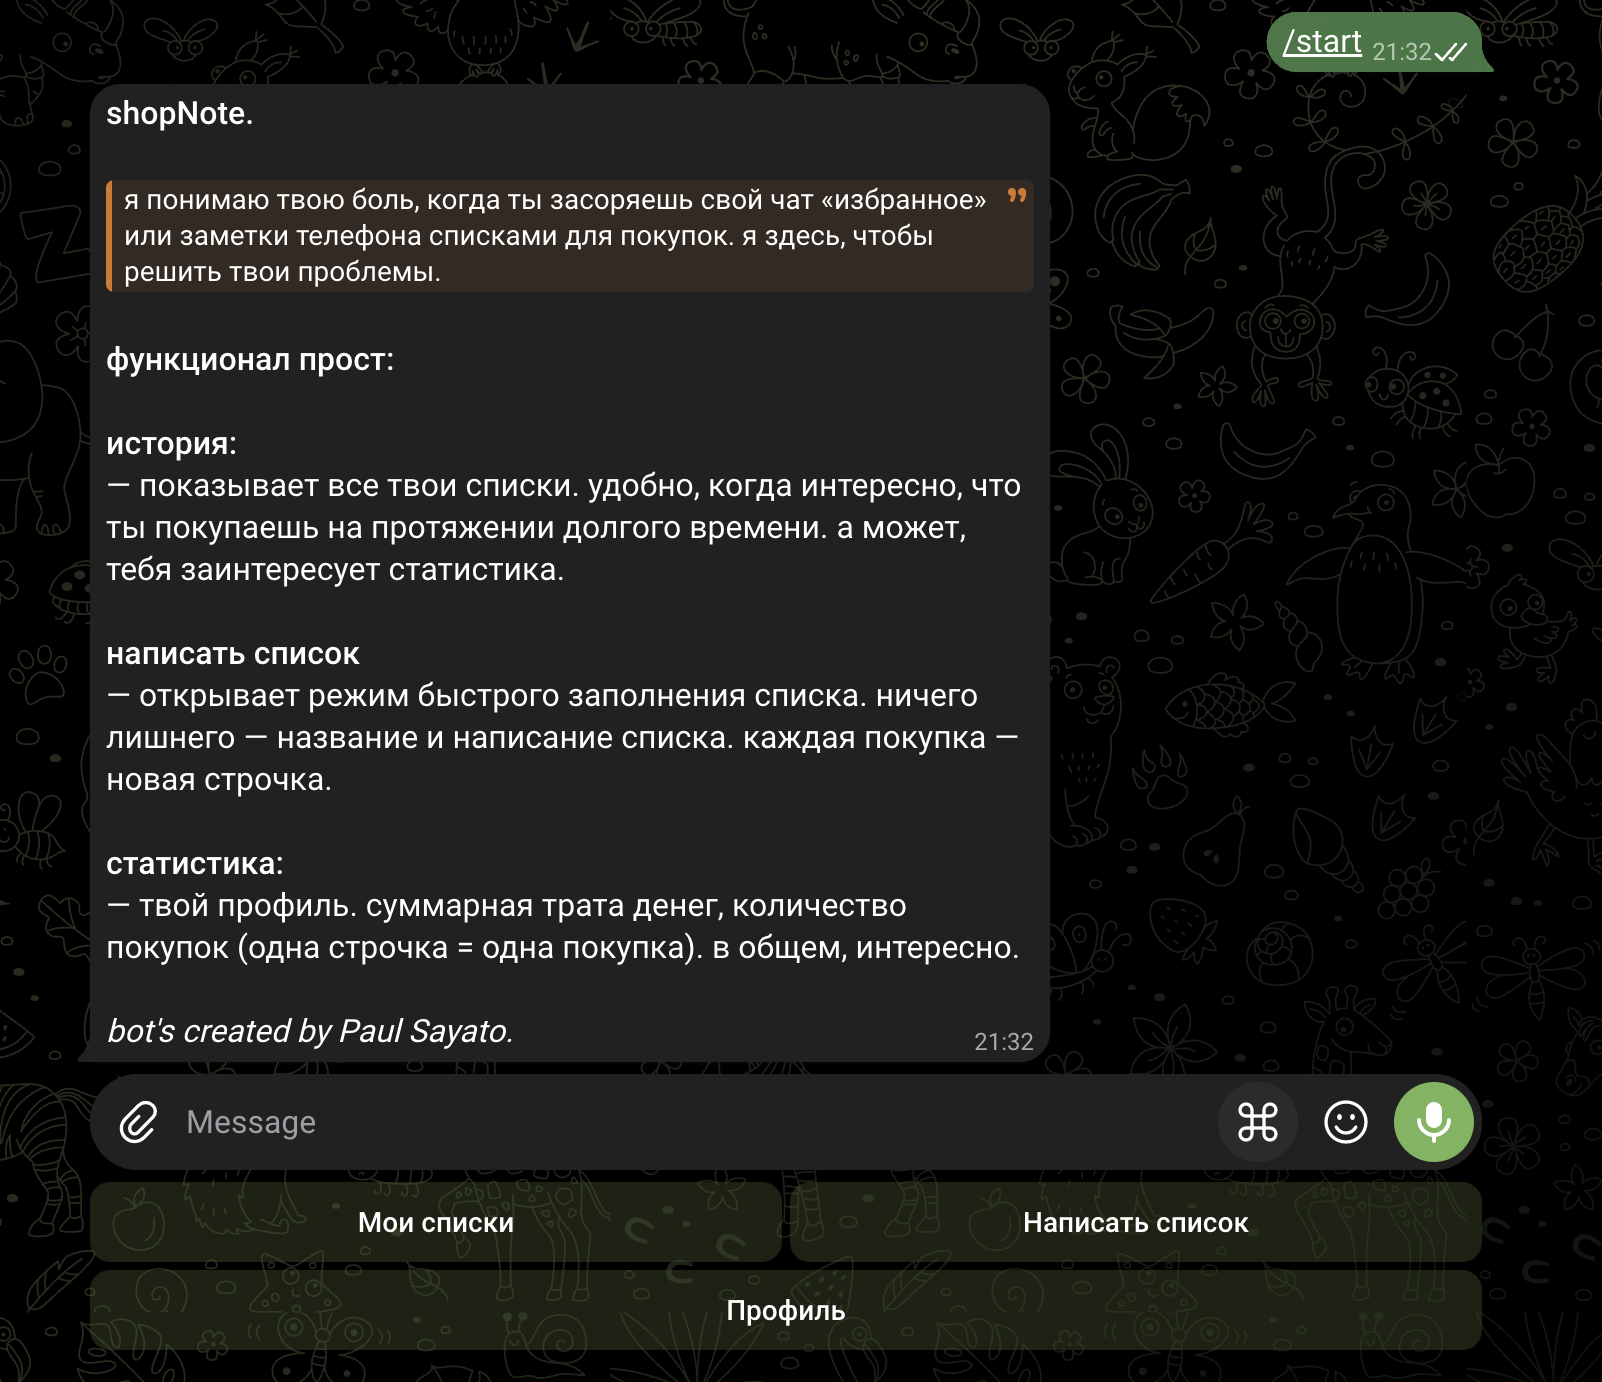
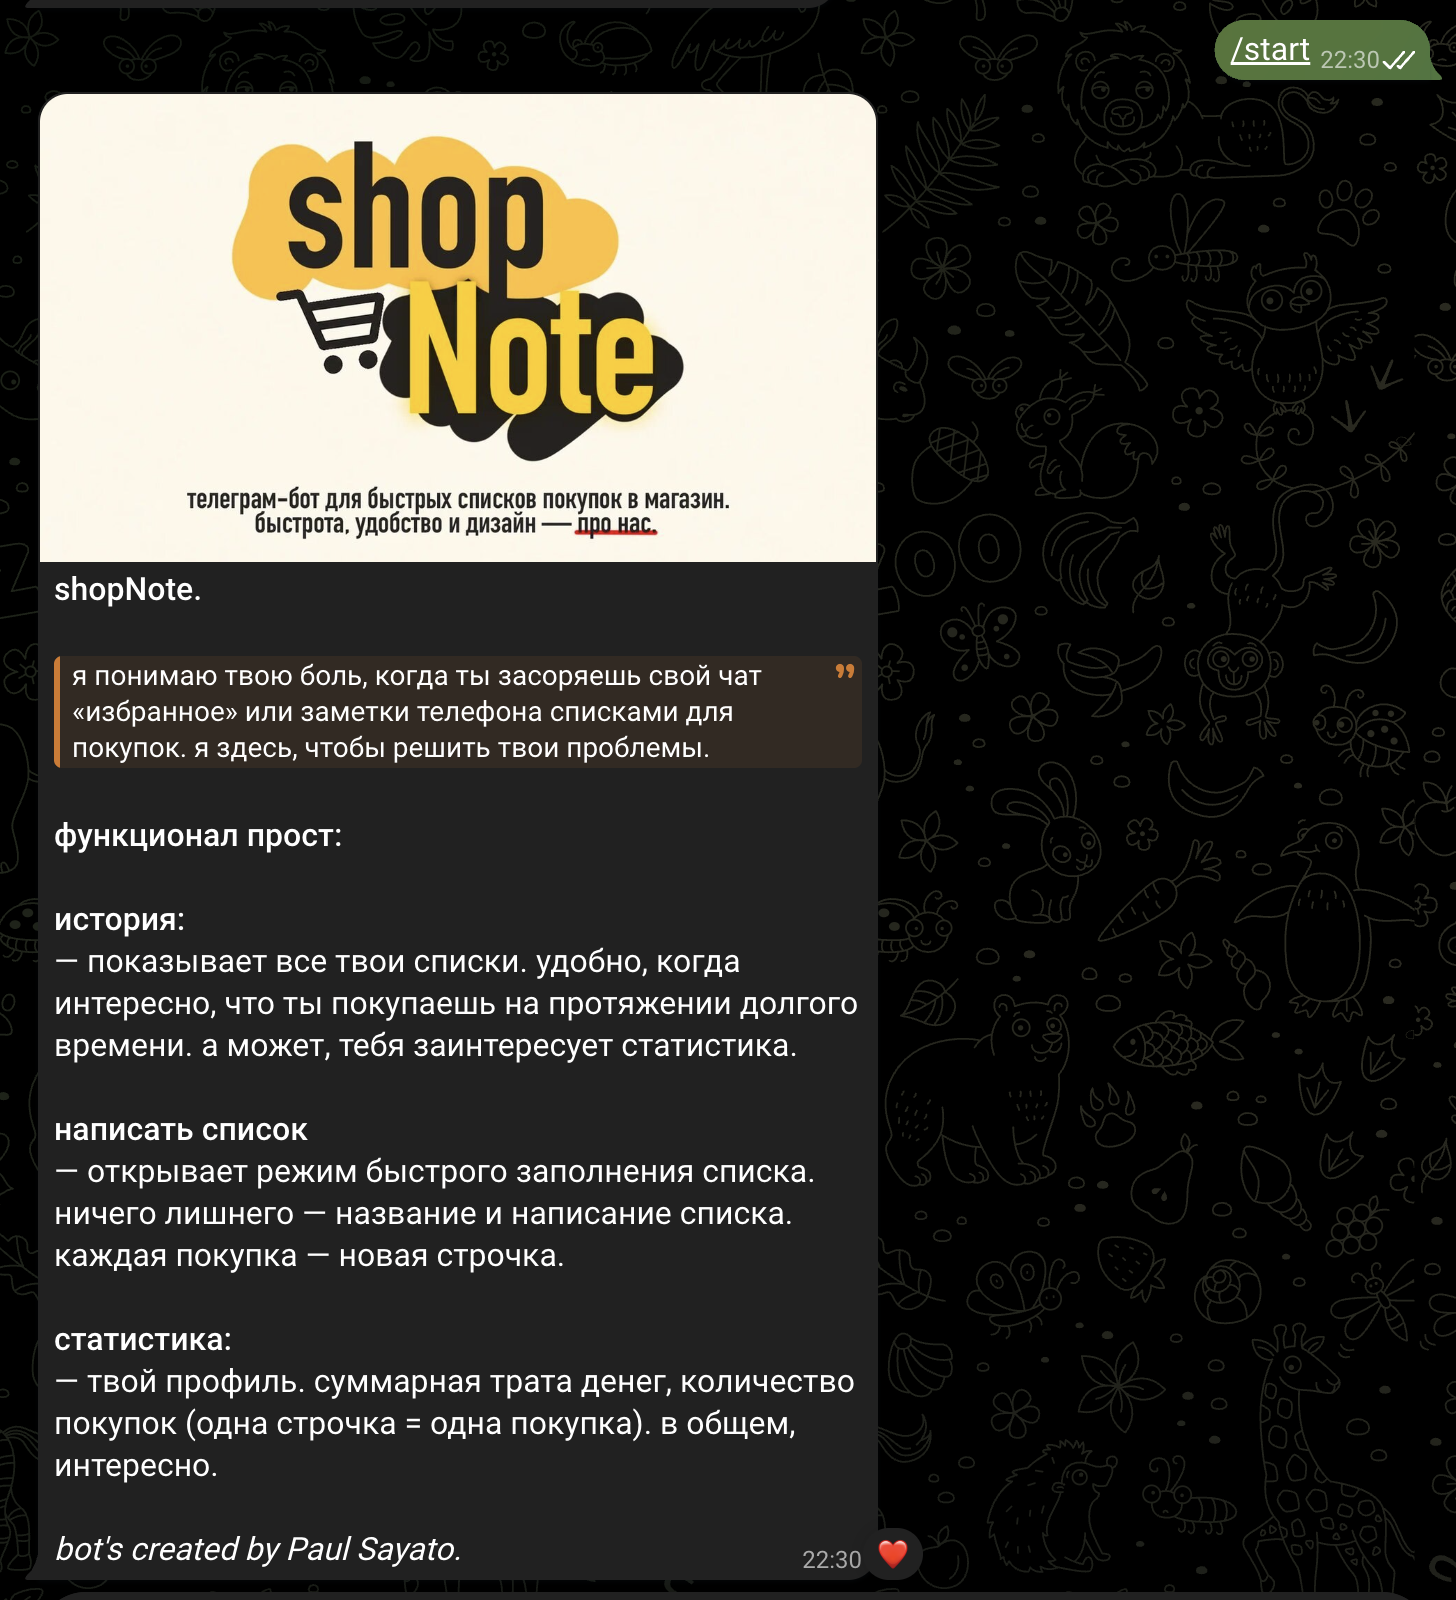
добавление оформления

diff --git a/Bot/bot.py b/Bot/bot.py
@@ -126,7 +126,9 @@ async def start_handler(message: Message):
     )
 
     # ответ. привествие
-    await message.answer(f'''
+    await message.answer_photo(
+        photo="https://disk.yandex.ru/i/l3dZJwCpgI-sCA",
+        caption=f'''
 <b>shopNote.</b>\n
 <blockquote>я понимаю твою боль, когда ты засоряешь свой чат «избранное» или заметки телефона списками для покупок. я здесь, чтобы решить твои проблемы.</blockquote>
 
@@ -141,7 +143,9 @@ async def start_handler(message: Message):
 <b>статистика:</b>
 — твой профиль. суммарная трата денег, количество покупок (одна строчка = одна покупка). в общем, интересно.\n
 <i>bot's created by Paul Sayato.</i>
-''', reply_markup=keyboard, parse_mode='HTML')
+''',
+        reply_markup=keyboard, 
+        parse_mode='HTML')
 
 # обработка кнопок снизу (реплай кейборд, т.е. тот что снизу)
 
@@ -688,7 +692,7 @@ async def user_handler(message: Message):
         await message.answer_photo(
             photo.file_id,
             caption=text,
-            parse_mode='HTML'
+            parse_mode='HTML',
         )
 
 # хендлеры прочие
